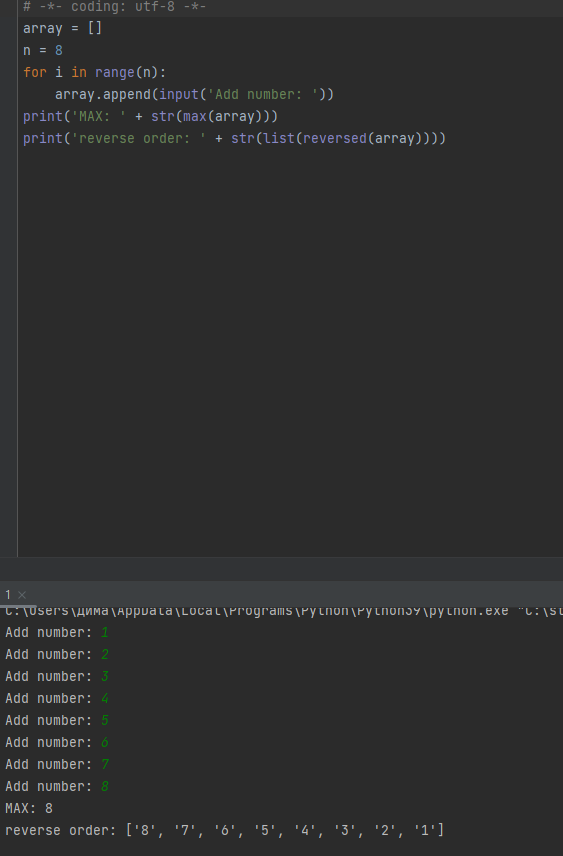
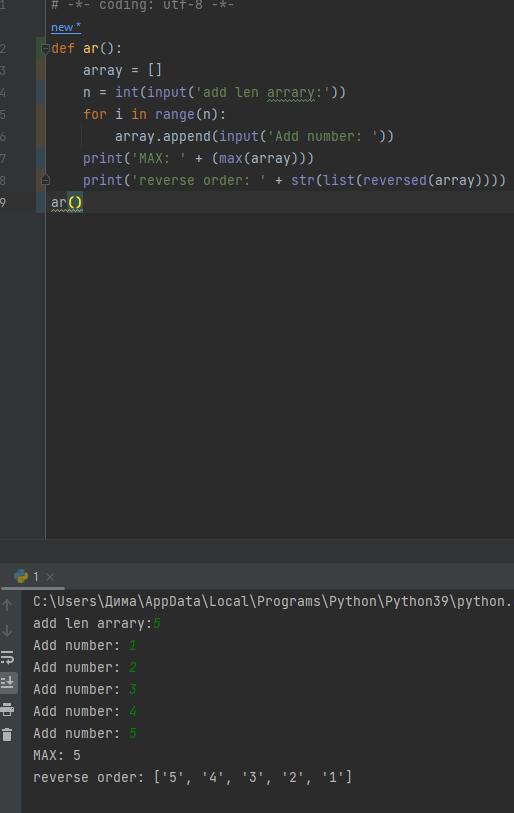
remade 7.2

diff --git a/основы программирования/less 7_var1/1.py b/основы программирования/less 7_var1/1.py
@@ -1,7 +1,9 @@
 # -*- coding: utf-8 -*-
-array = []
-n = 8
-for i in range(n):
-    array.append(input('Add number: '))
-print('MAX: ' + str(max(array)))
-print('reverse order: ' + str(list(reversed(array))))
+def ar():
+    array = []
+    n = int(input('add len arrary:'))
+    for i in range(n):
+        array.append(input('Add number: '))
+    print('MAX: ' + (max(array)))
+    print('reverse order: ' + str(list(reversed(array))))
+ar()

diff --git a/основы программирования/less 7_var1/2.py b/основы программирования/less 7_var1/2.py
@@ -1,0 +1,10 @@
+# -*- coding: utf-8 -*-
+def ar():
+    a = [1, 0, 2, 3, 0, 4, 5]
+    sr = 0
+    for i in range(len(a)):
+        sr = sum(a) / len(a)
+        if a[i] == 0:
+            a[i] = sr
+    print(a)
+ar()
